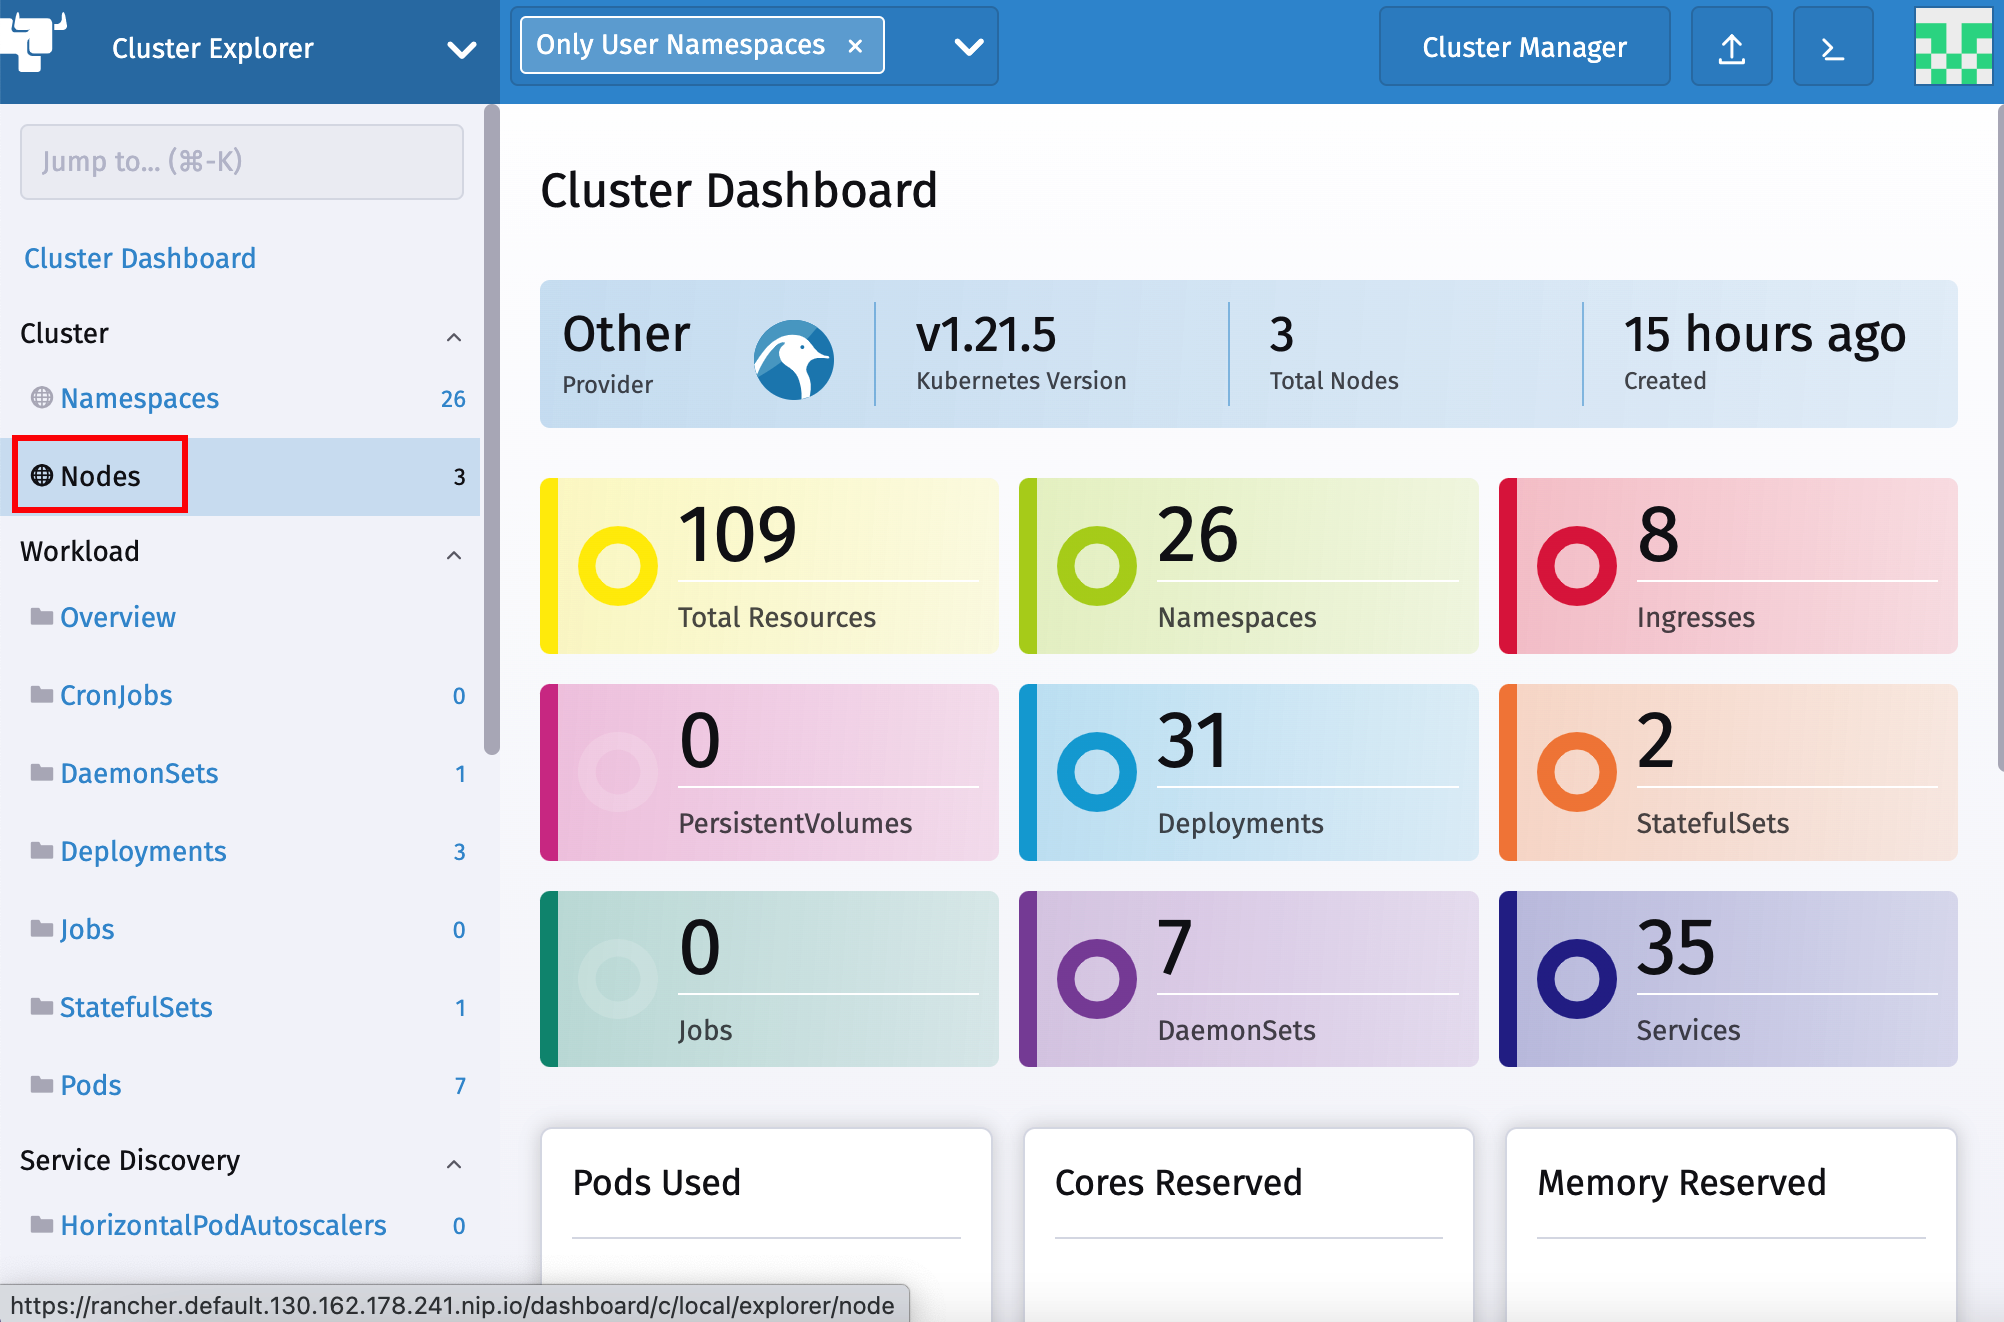
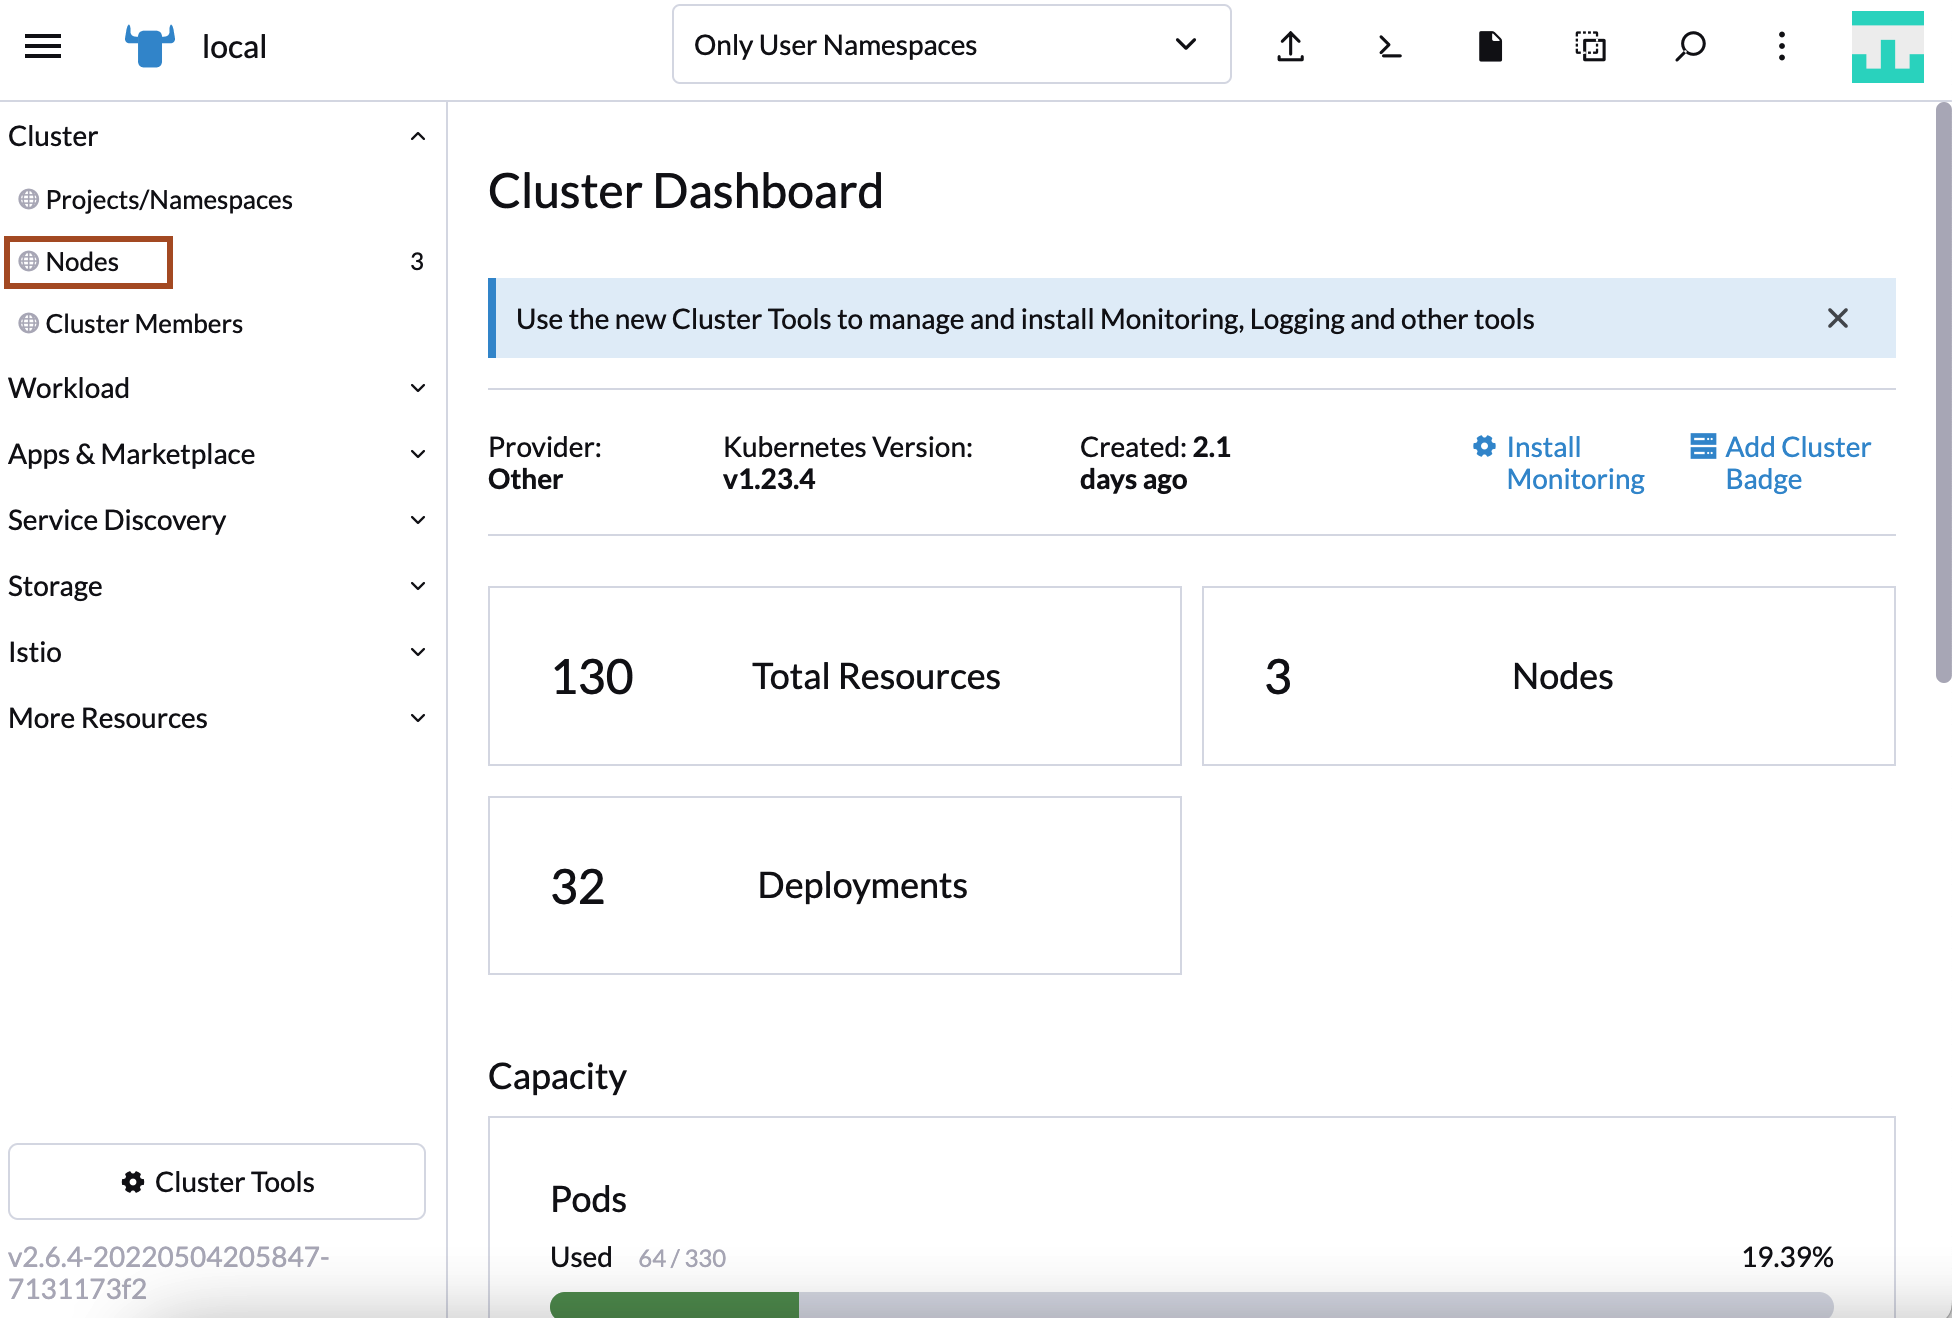
Update to 1.3.2

diff --git a/helidon-verrazzano/access-verrazzano/access-verrazzano.md b/helidon-verrazzano/access-verrazzano/access-verrazzano.md
@@ -169,10 +169,10 @@ Verrazzano installs several consoles. The endpoints for an installation are stor
 
       ![Kibana dashboard click](images/Discover1.png)
 
-4. In order to find log entry in OpenSearch first you need to define index pattern. Click *Create index pattern*. Type `verrazzano-namespace-hello-helidon` in the **Index Pattern name**. Select the result from the list below and click **Next step** as shown.
+4. In order to find log entry in OpenSearch first you need to define index pattern. Click *Create index pattern*. Type `verrazzano-application-hello-helidon` in the **Index Pattern name**. Select the result from the list below and click **Next step** as shown.
 
       ![Index pattern](images/CreateIndex.png)
-      ![Index pattern](images/IndexPattern.png)
+      
 
 5. On the next page select *@timestamp* as **Time Filter** field name and click **Create Index pattern**.
 
@@ -227,9 +227,9 @@ Verrazzano installs several consoles. The endpoints for an installation are stor
       > You may notice checkbox for *Allow collection of anonymous statistics*, Check this box and click *Got It*.
       ![Rancher Welcome](images/RancherWelcome.png)
 
-5. On the Cluster Manager page you can monitor and manage multiple cluster controlled by Verrazzano. In this lab you have only one (OKE) cluster. Click on the **Explorer** button to open the *Cluster Explorer*. The *Cluster Explorer* allows you to view and manipulate all of the custom resources and CRDs in a Kubernetes cluster from the Rancher UI.
+5. On the Cluster Manager page you can monitor and manage multiple cluster controlled by Verrazzano. In this lab you have only one (OKE) cluster. Click on the **local** to open the *Cluster Explorer*. The *Cluster Explorer* allows you to view and manipulate all of the custom resources and CRDs in a Kubernetes cluster from the Rancher UI.
 
-      ![Cluster Manager](images/RancherExplorer.png)
+      ![Cluster Manager](images/rancherlocal.png)
 
 6. The dashboard gives an overview about the cluster and the deployed applications. The number of resources belong to the *User Namespaces* which is practically almost all the resources including the system too. You can filter by namespace at top of the dashboard, but this is not necessary now. Click on the **Nodes** item in the left side menu to get an overview about the current load of the nodes.
 
@@ -253,7 +253,7 @@ Verrazzano installs several consoles. The endpoints for an installation are stor
 
 11. Make sure that the Helidon quickstart-mp application's container is selected in the log window. Find the custom `Help requested!` log entry. If you can't see the application log then click the **Settings** (blue button with the gear icon) and change the time filter to show all the log entries from the container start.
 
-      ![Pod](images/Logs.png)
+      ![Pod](images/logs.png)
 
 Congratulations you have successfully completed the Helidon application deployment on Verrazzano lab.
 

diff --git a/helidon-verrazzano/setup-oke-ocishell/setup-oke-ocishell.md b/helidon-verrazzano/setup-oke-ocishell/setup-oke-ocishell.md
@@ -35,7 +35,7 @@ You must have an [Oracle Cloud Infrastructure](https://cloud.oracle.com/en_US/cl
 
     ![Select Compartment](images/SelectCompartment.png)
 
-3. On the Create Cluster dialog, click **Quick Create** and click **Launch Workflow**.
+3. On the Create Cluster dialog, click **Quick Create** and click **Submit**.
 
     ![Launch Workflow](images/LaunchWorkFlow.png)
 
@@ -45,7 +45,7 @@ You must have an [Oracle Cloud Infrastructure](https://cloud.oracle.com/en_US/cl
 
     * **Name**: The name of the cluster. Accept the default value.
     * **Compartment**: The name of the compartment. Accept the default value.
-    * **Kubernetes Version**: The version of Kubernetes. Select the **v1.21.5** version.
+    * **Kubernetes Version**: The version of Kubernetes. Select the **v1.23.4** version.
     * **Kubernetes API Endpoint**: Determines if the cluster master nodes are going to be routable or not. Select the **Public Endpoint** value.
     * **Kubernetes Worker Nodes**: Determines if the cluster worker nodes are going to be routable or not. Accept the default value **Private Workers**.
     * **Shape**: The shape to use for each node in the node pool. The shape determines the number of CPUs and the amount of memory allocated to each node. The list shows only those shapes available in your tenancy that are supported by OKE. Select **VM.Standard.E4.Flex**. You need to select *3* as the number of *OCPUs* and *48* as the *Amount of Memory(GB)*.<br>
@@ -53,7 +53,7 @@ You must have an [Oracle Cloud Infrastructure](https://cloud.oracle.com/en_US/cl
 
     * **Number of nodes**: The number of worker nodes to create. Accept the default value, **3**.
 
-    ![Quick Cluster](images/ClusterName.png)
+    ![Quick Cluster](images/quickcluster.png)
     ![Enter Data](images/ClusterShape.png)
 
 5. Click **Next** to review the details you entered for the new cluster.
@@ -61,7 +61,7 @@ You must have an [Oracle Cloud Infrastructure](https://cloud.oracle.com/en_US/cl
 
 6. On the Review page, click **Create Cluster** to create the new network resources and the new cluster.
 
-    ![Review Cluster](images/CreateCluster.png)
+    ![Review Cluster](images/reviewcluster.png)
 
     > You see the network resources being created for you. Wait until the request to create the node pool is initiated and then click **Close**.
 

diff --git a/helidon-verrazzano/install-verrazzano/install-verrazzano.md b/helidon-verrazzano/install-verrazzano/install-verrazzano.md
@@ -70,9 +70,9 @@ You may need to run this command several times until you see the output similar 
     ```bash
     $ kubectl get node
     NAME          STATUS   ROLES   AGE    VERSION
-    10.0.10.112   Ready    node    4m32s   v1.21.5
-    10.0.10.200   Ready    node    4m32s   v1.21.5
-    10.0.10.36    Ready    node    4m28s   v1.21.5
+    10.0.10.112   Ready    node    4m32s   v1.23.4
+    10.0.10.200   Ready    node    4m32s   v1.23.4
+    10.0.10.36    Ready    node    4m28s   v1.23.4
     ```
 
     > If you see the node's information, then the configuration was successful.
@@ -86,11 +86,11 @@ Before installing Verrazzano, we need to install the Verrazzano Platform Operato
 1. Copy the following command and paste it in the *Cloud Shell* to run it.
 
     ```bash
-    <copy>kubectl apply -f https://github.com/verrazzano/verrazzano/releases/download/v1.2.0/operator.yaml</copy>
+    <copy>kubectl apply -f https://github.com/verrazzano/verrazzano/releases/download/v1.3.2/operator.yaml</copy>
     ```
       The output should be similar to the following:
     ```bash
-    $ kubectl apply -f https://github.com/verrazzano/verrazzano/releases/download/v1.2.0/operator.yaml
+    $ kubectl apply -f https://github.com/verrazzano/verrazzano/releases/download/v1.3.2/operator.yaml
     customresourcedefinition.apiextensions.k8s.io/verrazzanomanagedclusters.clusters.verrazzano.io created
     customresourcedefinition.apiextensions.k8s.io/verrazzanos.install.verrazzano.io created
     namespace/verrazzano-install created
